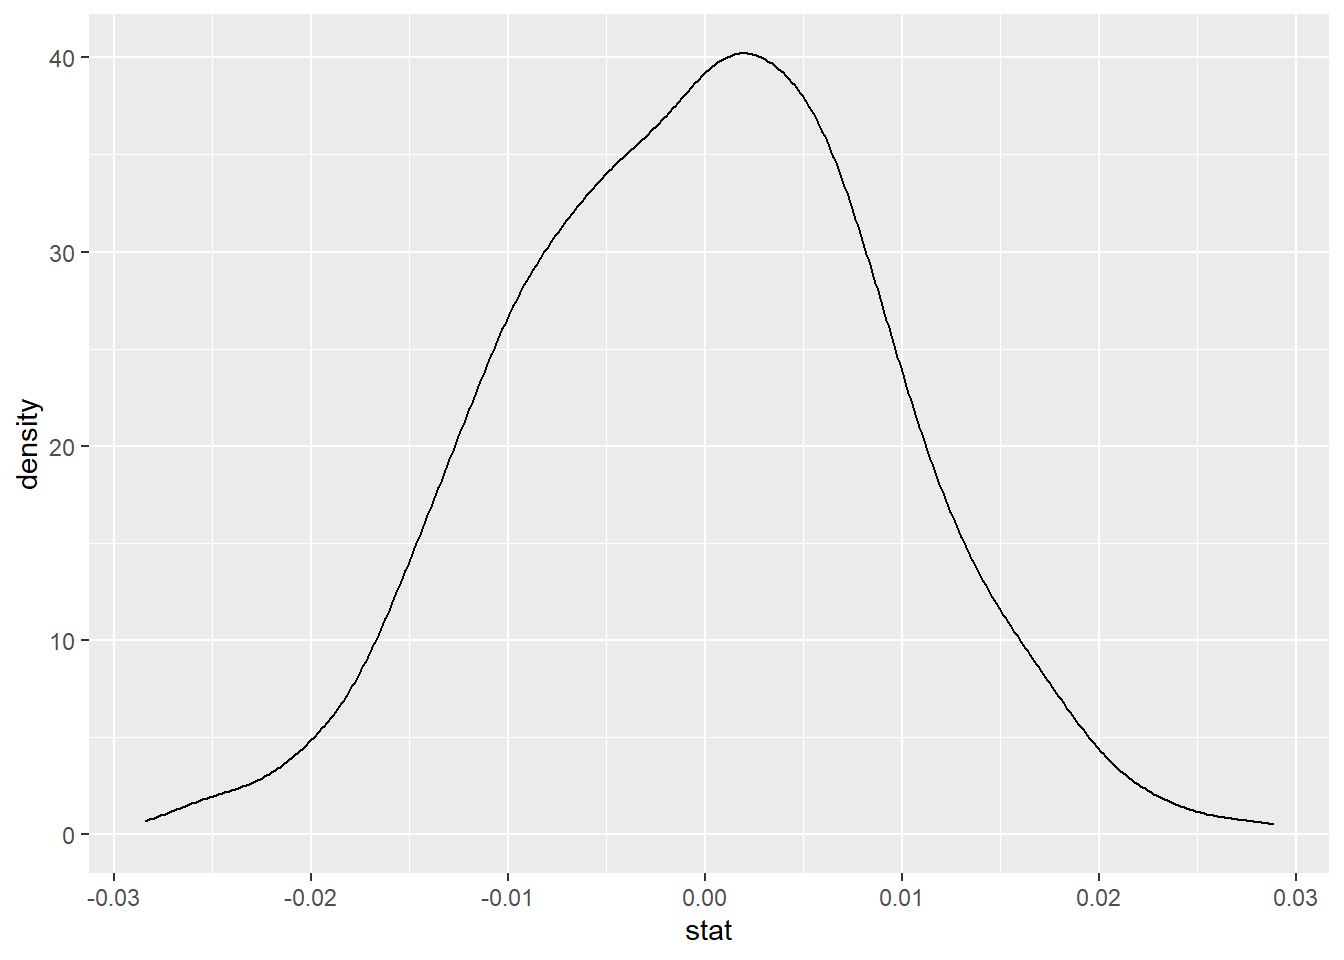
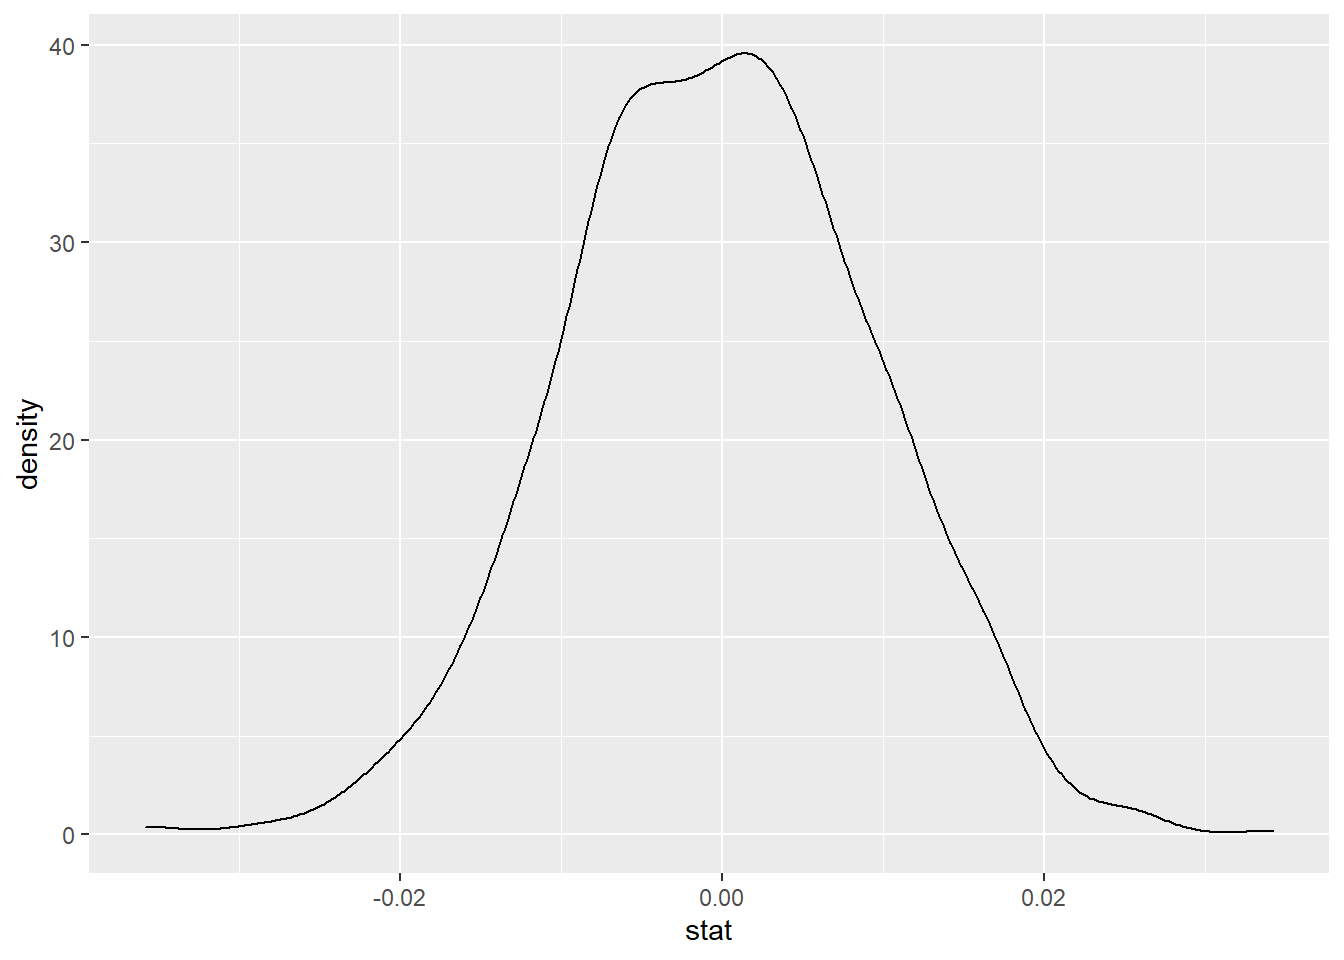
rrr

diff --git a/content/post/R/2021-10-13-foundations-of-inference/index.en.html b/content/post/R/2021-10-13-foundations-of-inference/index.en.html
@@ -146,14 +146,14 @@ homeown_perm</code></pre>
 ##    &lt;fct&gt;   &lt;fct&gt;      &lt;int&gt;
 ##  1 Rent    male           1
 ##  2 Rent    male           1
-##  3 Rent    male           1
-##  4 Rent    male           1
+##  3 Own     male           1
+##  4 Own     male           1
 ##  5 Rent    female         1
-##  6 Own     male           1
+##  6 Rent    male           1
 ##  7 Rent    male           1
-##  8 Rent    female         1
-##  9 Own     female         1
-## 10 Rent    female         1
+##  8 Own     female         1
+##  9 Rent    female         1
+## 10 Own     female         1
 ## # ... with 97,110 more rows</code></pre>
 </div>
 <div id="randomized-statistics-and-dotplot" class="section level2">
@@ -176,18 +176,18 @@ homeown_perm &lt;- homes %&gt;%
 # Print results to console
 homeown_perm</code></pre>
 <pre><code>## # A tibble: 100 x 2
-##    replicate      stat
-##        &lt;int&gt;     &lt;dbl&gt;
-##  1         1 -0.0144  
-##  2         2 -0.000827
-##  3         3 -0.00618 
-##  4         4 -0.000827
-##  5         5  0.00412 
-##  6         6 -0.00247 
-##  7         7 -0.0136  
-##  8         8  0.0235  
-##  9         9 -0.00700 
-## 10        10  0.00288 
+##    replicate     stat
+##        &lt;int&gt;    &lt;dbl&gt;
+##  1         1  0.00123
+##  2         2  0.00535
+##  3         3 -0.00948
+##  4         4 -0.00989
+##  5         5  0.00865
+##  6         6 -0.0107 
+##  7         7 -0.00495
+##  8         8  0.00576
+##  9         9  0.00123
+## 10        10  0.00618
 ## # ... with 90 more rows</code></pre>
 <pre class="r"><code># Perform 100 permutations
 homeown_perm &lt;- homes %&gt;%
@@ -367,13 +367,99 @@ disc_perm %&gt;%
   # Calculate difference in proportion, male then female
   calculate(stat= &quot;diff in props&quot;, order= c(&quot;male&quot;, &quot;female&quot;))</code></pre>
 <pre><code>## # A tibble: 5 x 2
-##   replicate   stat
-##       &lt;int&gt;  &lt;dbl&gt;
-## 1         1 -0.125
-## 2         2  0.125
-## 3         3  0.292
-## 4         4 -0.125
-## 5         5  0.208</code></pre>
+##   replicate    stat
+##       &lt;int&gt;   &lt;dbl&gt;
+## 1         1  0.292 
+## 2         2 -0.208 
+## 3         3 -0.125 
+## 4         4  0.0417
+## 5         5 -0.0417</code></pre>
+</div>
+<div id="randomizing-gender-discrimination" class="section level2">
+<h2>2-5 Randomizing gender discrimination</h2>
+<p>Recall that we are considering a situation where the number of men and women are fixed (representing the resumes) and the number of people promoted is fixed (the managers were able to promote only 35 individuals).</p>
+<p>In this exercise, you’ll create a randomization distribution of the null statistic with 1000 replicates as opposed to just 5 in the previous exercise. As a reminder, the statistic of interest is the difference in proportions promoted between genders (i.e. proportion for males minus proportion for females). From the original dataset, you can calculate how the promotion rates differ between males and females. Using the specify-hypothesis-generate-calculate workflow in infer, you can calculate the same statistic, but instead of getting a single number, you get a whole distribution. In this exercise, you’ll compare that single number from the original dataset to the distribution made by the simulation.</p>
+<pre class="r"><code># Calculate the observed difference in promotion rate
+diff_orig &lt;- disc %&gt;%
+  # Group by sex
+  group_by(sex) %&gt;%
+  # Summarize to calculate fraction promoted
+  summarize(prop_prom = mean(promote == &quot;promoted&quot;)) %&gt;%
+  # Summarize to calculate difference
+  summarize(stat = diff(prop_prom)) %&gt;% 
+  pull()
+    
+# See the result
+diff_orig</code></pre>
+<pre><code>## [1] 0.04166667</code></pre>
+<pre class="r"><code># Create data frame of permuted differences in promotion rates
+disc_perm &lt;- disc %&gt;%
+  # Specify promote vs. sex
+  specify(promote~sex, success = &quot;promoted&quot;) %&gt;%
+  # Set null hypothesis as independence
+  hypothesize(null = &quot;independence&quot;) %&gt;%
+  # Generate 1000 permutations
+  generate(reps = 1000, type = &quot;permute&quot;) %&gt;%
+  # Calculate difference in proportions
+  calculate(stat = &quot;diff in props&quot;, order = c(&quot;male&quot;, &quot;female&quot;))</code></pre>
+<pre class="r"><code># From previous steps
+diff_orig &lt;- disc %&gt;%
+  group_by(sex) %&gt;%
+  summarize(prop_prom = mean(promote == &quot;promoted&quot;)) %&gt;%
+  summarize(stat = diff(prop_prom)) %&gt;% 
+  pull()
+disc_perm &lt;- disc %&gt;%
+  specify(promote ~ sex, success = &quot;promoted&quot;) %&gt;%
+  hypothesize(null = &quot;independence&quot;) %&gt;%
+  generate(reps = 1000, type = &quot;permute&quot;) %&gt;%
+  calculate(stat = &quot;diff in props&quot;, order = c(&quot;male&quot;, &quot;female&quot;))
+  
+# Using permutation data, plot stat
+ggplot(disc_perm, aes(x = stat)) + 
+  # Add a histogram layer
+  geom_histogram(binwidth = 0.01) +
+  # Add a vertical line at diff_orig
+  geom_vline(aes(xintercept = diff_orig), color = &quot;red&quot;)</code></pre>
+<p><img src="{{< blogdown/postref >}}index.en_files/figure-html/unnamed-chunk-15-1.png" width="672" /></p>
+</div>
+<div id="critical-region" class="section level2">
+<h2>2-8 Critical region</h2>
+<p>It seems as though the statistic—a difference in promotion rates of 0.2917—is on the extreme end of the permutation distribution. That is, there are very few permuted differences which are as extreme as the observed difference.</p>
+<p>To quantify the extreme permuted (null) differences, we use the quantile() function.</p>
+<pre class="r"><code>disc_perm %&gt;% 
+  summarize(
+    # Find the 0.9 quantile of diff_perm&#39;s stat
+    q.90 = quantile(stat, p = 0.9),
+    # ... and the 0.95 quantile
+    q.95 = quantile(stat, p = 0.95),
+    # ... and the 0.99 quantile
+    q.99 = quantile(stat, p = 0.99)
+  )</code></pre>
+<pre><code>## # A tibble: 1 x 3
+##    q.90  q.95  q.99
+##   &lt;dbl&gt; &lt;dbl&gt; &lt;dbl&gt;
+## 1 0.125 0.208 0.292</code></pre>
+</div>
+<div id="two-sided-critical-region" class="section level2">
+<h2>2-8 Two-sided critical region</h2>
+<p>For the discrimination data, the question at hand is whether or not women were promoted less often than men. However, there are often scenarios where the research question centers around a difference without directionality.</p>
+<p>For example, you might be interested in whether the rate of promotion for men and women is different. In that case, a difference in proportions of -0.29 is just as “extreme” as a difference of positive 0.29.</p>
+<p>If you had seen that women were promoted more often, what would the other side of the distribution of permuted differences look like? That is, what are the smallest (negative) values of the distribution of permuted differences?</p>
+<pre class="r"><code># Use disc_perm
+disc_perm %&gt;% 
+  # ... to calculate summary stats
+  summarize(
+    # Find the 0.01 quantile of stat
+    q.01 = quantile(stat, p = 0.01),
+    # ... and 0.05
+    q.05 = quantile(stat, p = 0.05),
+    # ... and 0.1 
+    q.10 = quantile(stat, p = 0.1)
+  )</code></pre>
+<pre><code>## # A tibble: 1 x 3
+##     q.01   q.05   q.10
+##    &lt;dbl&gt;  &lt;dbl&gt;  &lt;dbl&gt;
+## 1 -0.292 -0.208 -0.125</code></pre>
 </div>
 <div id="hypothesis-testing-errors-opportunity-cost" class="section level2">
 <h2>3- Hypothesis testing errors: opportunity cost</h2>
